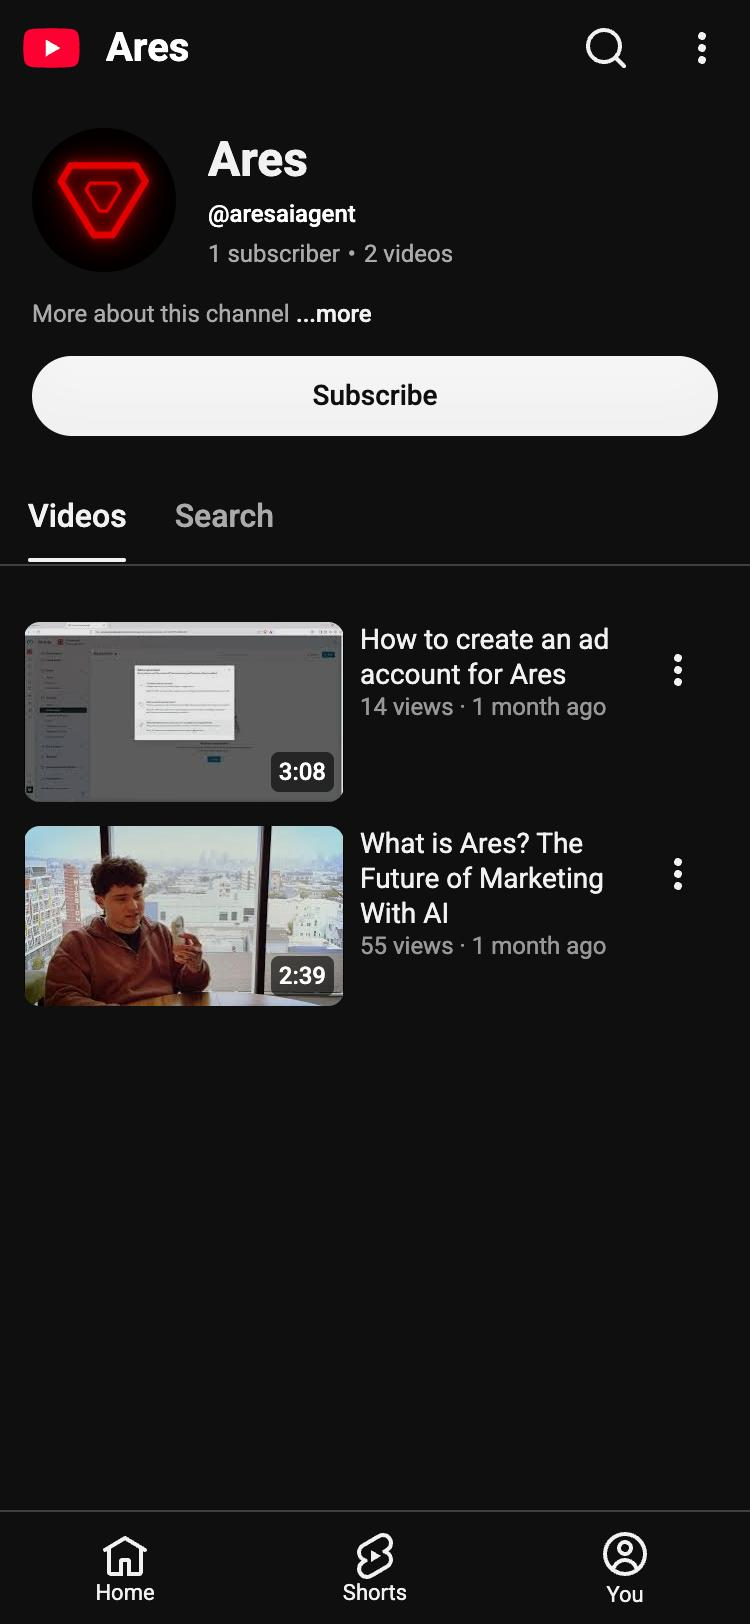
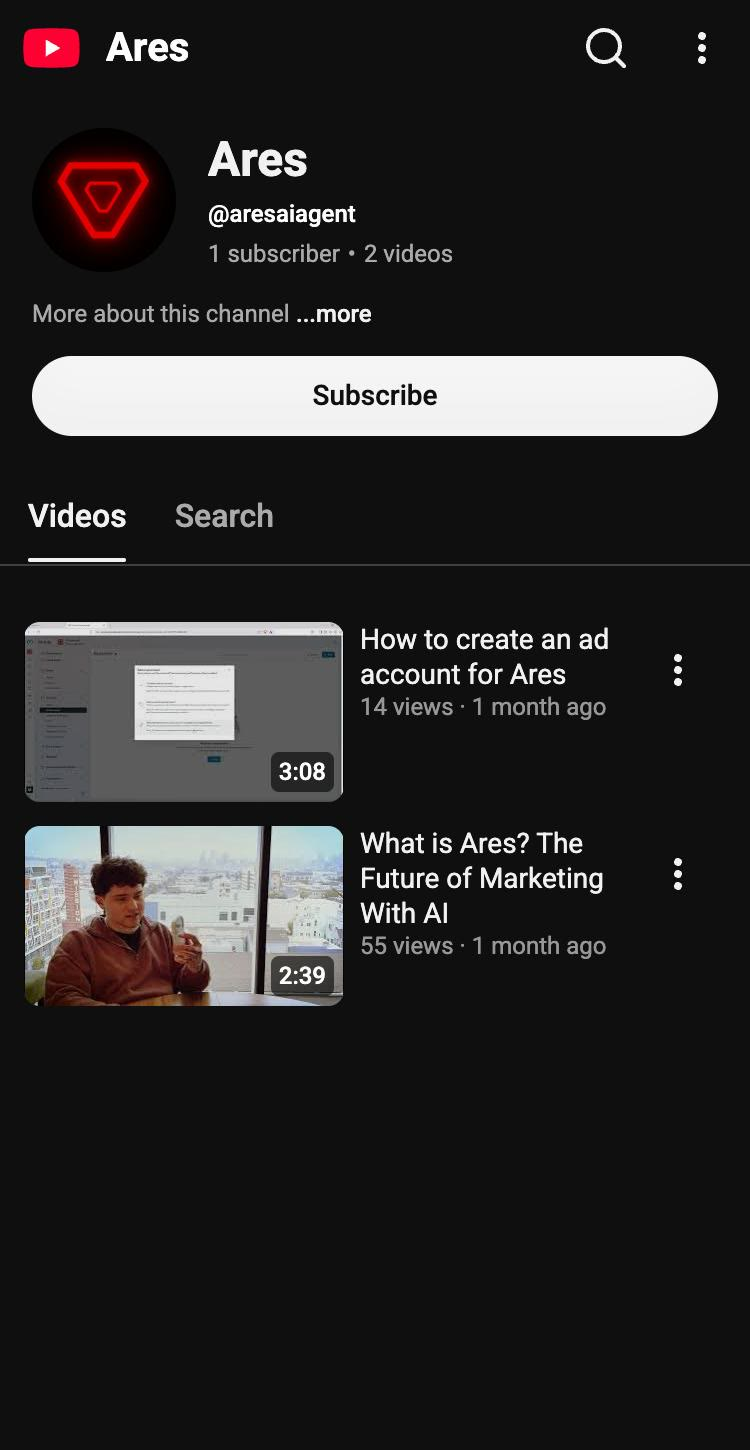
Clean-crop social previews

diff --git a/index.html b/index.html
@@ -313,8 +313,8 @@
     animation: kenburns 26s ease-in-out infinite alternate;
   }
 
-  .p-ig  { object-position: center -96px; }
-  .p-x   { object-position: center -100px; }
+  .p-ig  { object-position: center top; }
+  .p-x   { object-position: center top; }
   .p-yt  { object-position: center top; }
 
   @keyframes kenburns {
